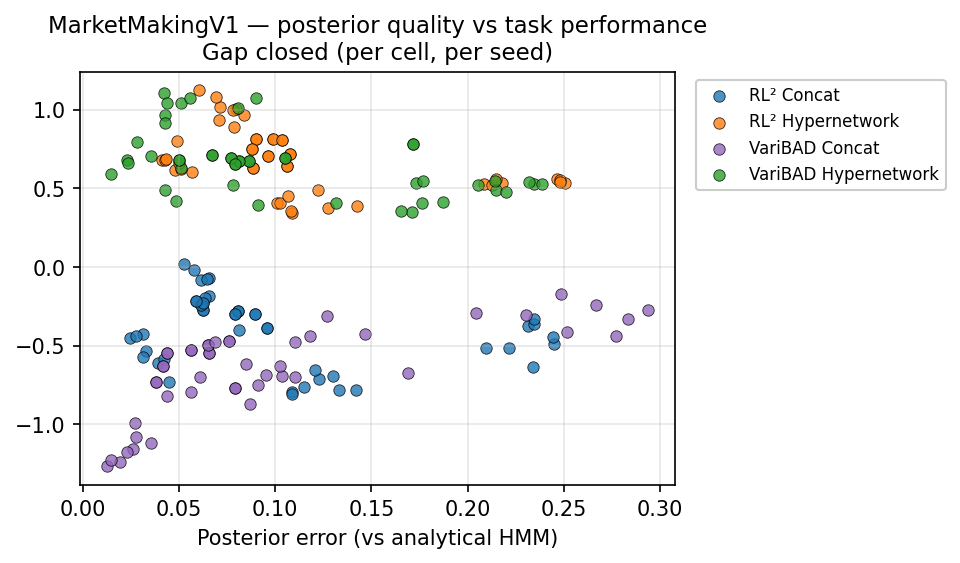
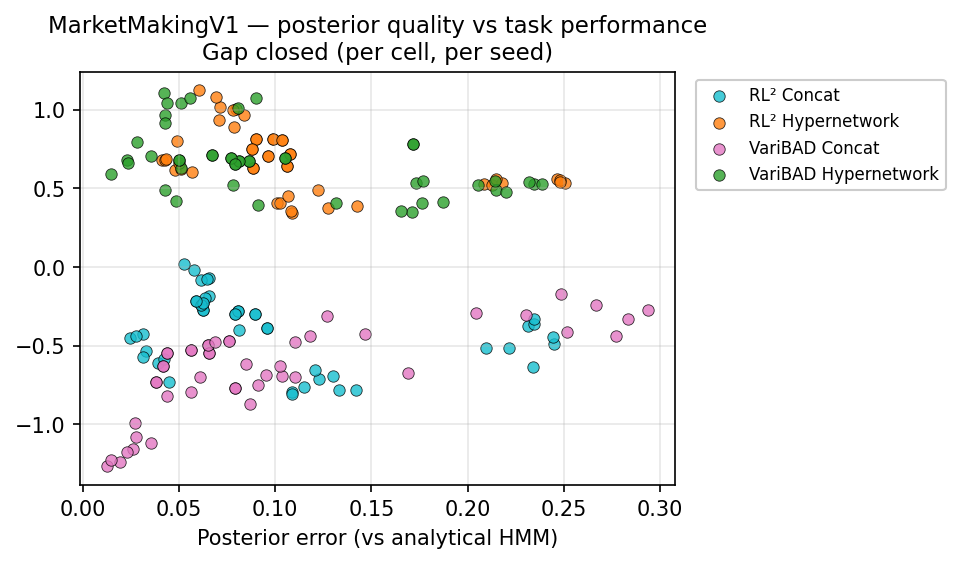
M6 plots: distinct colour per method, references dashed
Each of the 7 methods now has its own distinct hue across all three M6
figures — no two lines share a colour. The three reference methods
(regime-agnostic, Belief, Oracle PPO) keep their canonical project
colours from M3/M5 and are drawn dashed to mark them as bounds rather
than methods being benchmarked. Belief-PPO joins the dashed reference
group on both panels.

Two meta-RL colour overrides on M6 (vs the cross-milestone palette):
- rl2_concat: cyan #17becf (was blue, collided with regime-agnostic)
- varibad_concat: pink #e377c2 (was purple, collided with Belief-PPO)

RL² and VariBAD hypernet keep their M5 orange/green so the "hypernet"
identity remains consistent across milestones. The scatter figure
inherits the new colours automatically (only meta-RL methods appear
there) — decoupling reads even cleaner now: cyan/pink concat band sits
firmly below the orange/green hypernet band at overlapping
posterior_error.

diff --git a/plotting/m6_plots.py b/plotting/m6_plots.py
@@ -72,22 +72,28 @@ _METHOD_LABELS = {
     "varibad_concat":      "VariBAD Concat",
     "varibad_hypernet":    "VariBAD Hypernetwork",
 }
-# M6 color overrides: belief_ppo is bumped to the analytical-red slot to
-# avoid colliding with varibad_concat purple (the slot is free since M6
-# does not show an analytical-posterior series). Reference methods
-# (regime-agnostic, oracle) are dashed instead of solid; that line-style
-# distinction handles the regime_agnostic-blue ↔ rl2_concat-blue clash
-# on the absolute panel.
+# M6 colors: each of the 7 methods gets a distinct hue so two lines on
+# the same panel never share a colour. The three reference methods
+# (regime-agnostic, Belief, Oracle) keep their canonical project colours
+# from M3/M5 and are drawn *dashed* — they are upper/lower bounds, not
+# methods being benchmarked. The four meta-RL methods are drawn solid;
+# rl2_concat (was blue, collided with regime-agnostic) is bumped to
+# cyan, and varibad_concat (was purple, collided with Belief-PPO) is
+# bumped to pink. RL² and VariBAD hypernet keep their M5 orange/green.
 _METHOD_COLORS = {
-    "regime_agnostic_ppo": COLORS["ppo"],
-    "belief_ppo":          COLORS["analytical"],
-    "oracle_ppo":          COLORS["oracle_ppo"],
-    "rl2_concat":          COLORS["rl2_concat"],
-    "rl2_hypernet":        COLORS["rl2_hypernet"],
-    "varibad_concat":      COLORS["varibad_concat"],
-    "varibad_hypernet":    COLORS["varibad_hypernet"],
+    "regime_agnostic_ppo": COLORS["ppo"],          # blue, dashed (reference)
+    "belief_ppo":          COLORS["belief_ppo"],   # purple, dashed (reference)
+    "oracle_ppo":          COLORS["oracle_ppo"],   # brown, dashed (reference)
+    "rl2_concat":          "#17becf",              # cyan (overridden vs M5 blue)
+    "rl2_hypernet":        COLORS["rl2_hypernet"], # orange (M5 standard)
+    "varibad_concat":      "#e377c2",              # pink (overridden vs M5 purple)
+    "varibad_hypernet":    COLORS["varibad_hypernet"],  # green (M5 standard)
 }
-_REFERENCE_METHODS = {"regime_agnostic_ppo", "oracle_ppo"}
+# All three references render dashed on both panels. Belief-PPO joins
+# regime-agnostic and Oracle here because it's a reference benchmark
+# (analytical-posterior upper bound on regime-only methods), not one of
+# the meta-RL methods being characterised.
+_REFERENCE_METHODS = {"regime_agnostic_ppo", "belief_ppo", "oracle_ppo"}
 
 _AXIS_LABELS = {
     "persistence":        "Persistence (mean regime duration)",
@@ -233,17 +239,25 @@ def plot_difficulty_sweep(axis: str, out_path: Path) -> bool:
             continue
         means, los, his = _aligned_curve(entry, "gc")
         color = _METHOD_COLORS[method]
-        ax_gc.plot(x, means, marker="o", color=color, linewidth=1.6,
+        is_ref = method in _REFERENCE_METHODS
+        linestyle = "--" if is_ref else "-"
+        ax_gc.plot(x, means, marker="o", color=color, linestyle=linestyle,
+                   linewidth=1.6 if not is_ref else 1.2,
+                   alpha=1.0 if not is_ref else 0.8,
                    label=_METHOD_LABELS[method])
         valid = ~np.isnan(los) & ~np.isnan(his) & (los != his)
         if valid.any():
-            ax_gc.fill_between(x, los, his, color=color, alpha=0.15)
-    # Reference dashes (the same info as regime_agnostic and oracle method
-    # lines on the left panel, in normalised space here).
-    ax_gc.axhline(0.0, color=COLORS["ppo"], linestyle="--", linewidth=1.0,
-                  alpha=0.6, label="Regime-agnostic PPO floor (= 0)")
-    ax_gc.axhline(1.0, color=COLORS["oracle_ppo"], linestyle="--", linewidth=1.0,
-                  alpha=0.6, label="Oracle-PPO ceiling (= 1)")
+            ax_gc.fill_between(x, los, his, color=color,
+                               alpha=0.15 if not is_ref else 0.10)
+    # Constant-by-construction references: regime_agnostic at 0 and
+    # oracle at 1. Dashed in their canonical project colours so the
+    # legend reads consistently with the absolute panel.
+    ax_gc.axhline(0.0, color=_METHOD_COLORS["regime_agnostic_ppo"],
+                  linestyle="--", linewidth=1.0, alpha=0.6,
+                  label="Regime-agnostic PPO floor (= 0)")
+    ax_gc.axhline(1.0, color=_METHOD_COLORS["oracle_ppo"],
+                  linestyle="--", linewidth=1.0, alpha=0.6,
+                  label="Oracle-PPO ceiling (= 1)")
 
     ax_gc.set_xticks(x)
     ax_gc.set_xticklabels([_LEVEL_LABELS[lv] for lv in _LEVELS])
@@ -260,8 +274,9 @@ def plot_difficulty_sweep(axis: str, out_path: Path) -> bool:
         y=1.02, fontsize=12,
     )
 
-    # Build a single shared legend covering everything that appears in
-    # either panel. Reference methods are dashed in the legend too.
+    # Build a single shared legend covering every method that appears
+    # in either panel. Reference methods (regime-agnostic, Belief,
+    # Oracle) are dashed in the legend too — matches both panels.
     legend_handles: list[Any] = []
     for method in _ABS_METHOD_ORDER:
         if method not in by_method:
@@ -274,11 +289,6 @@ def plot_difficulty_sweep(axis: str, out_path: Path) -> bool:
             linewidth=1.6, marker="o",
             label=_METHOD_LABELS[method],
         ))
-    legend_handles.append(Line2D(
-        [0], [0], color=COLORS["ppo"], linestyle="--",
-        linewidth=1.0, alpha=0.6,
-        label="Floor / Ceiling references (right panel)",
-    ))
     fig.legend(
         handles=legend_handles,
         loc="upper left", bbox_to_anchor=(0.84, 0.95),
